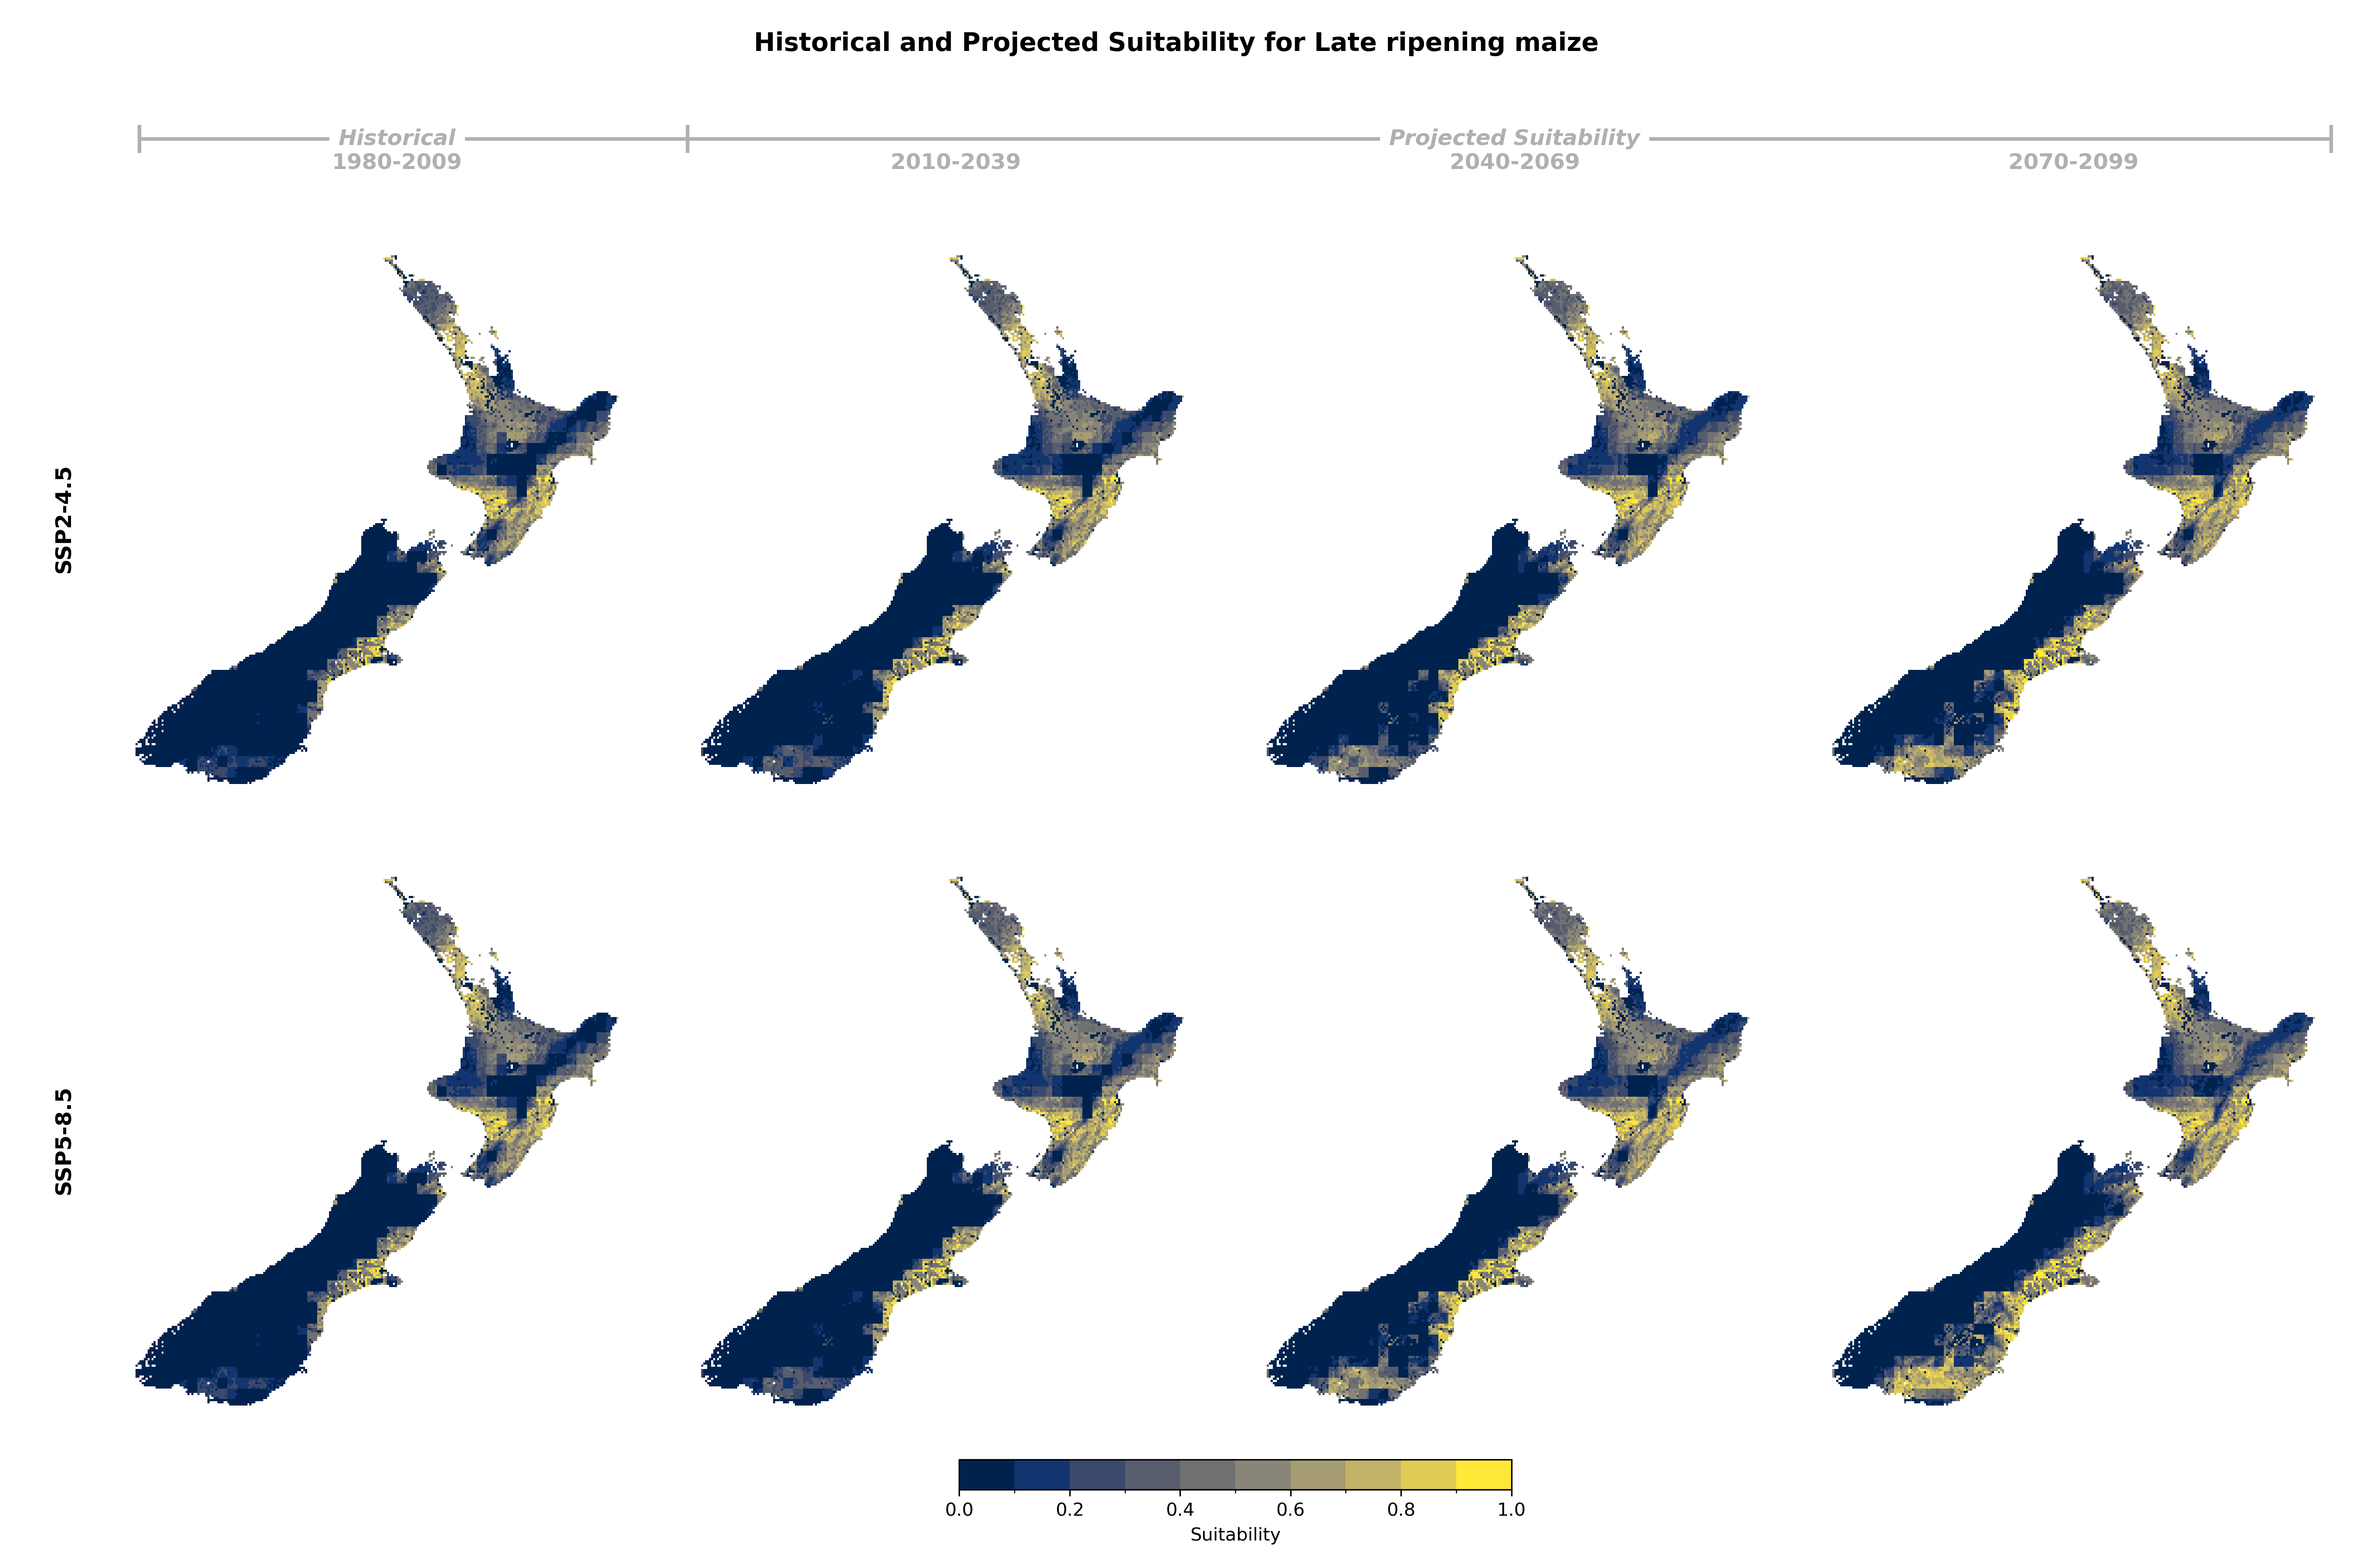
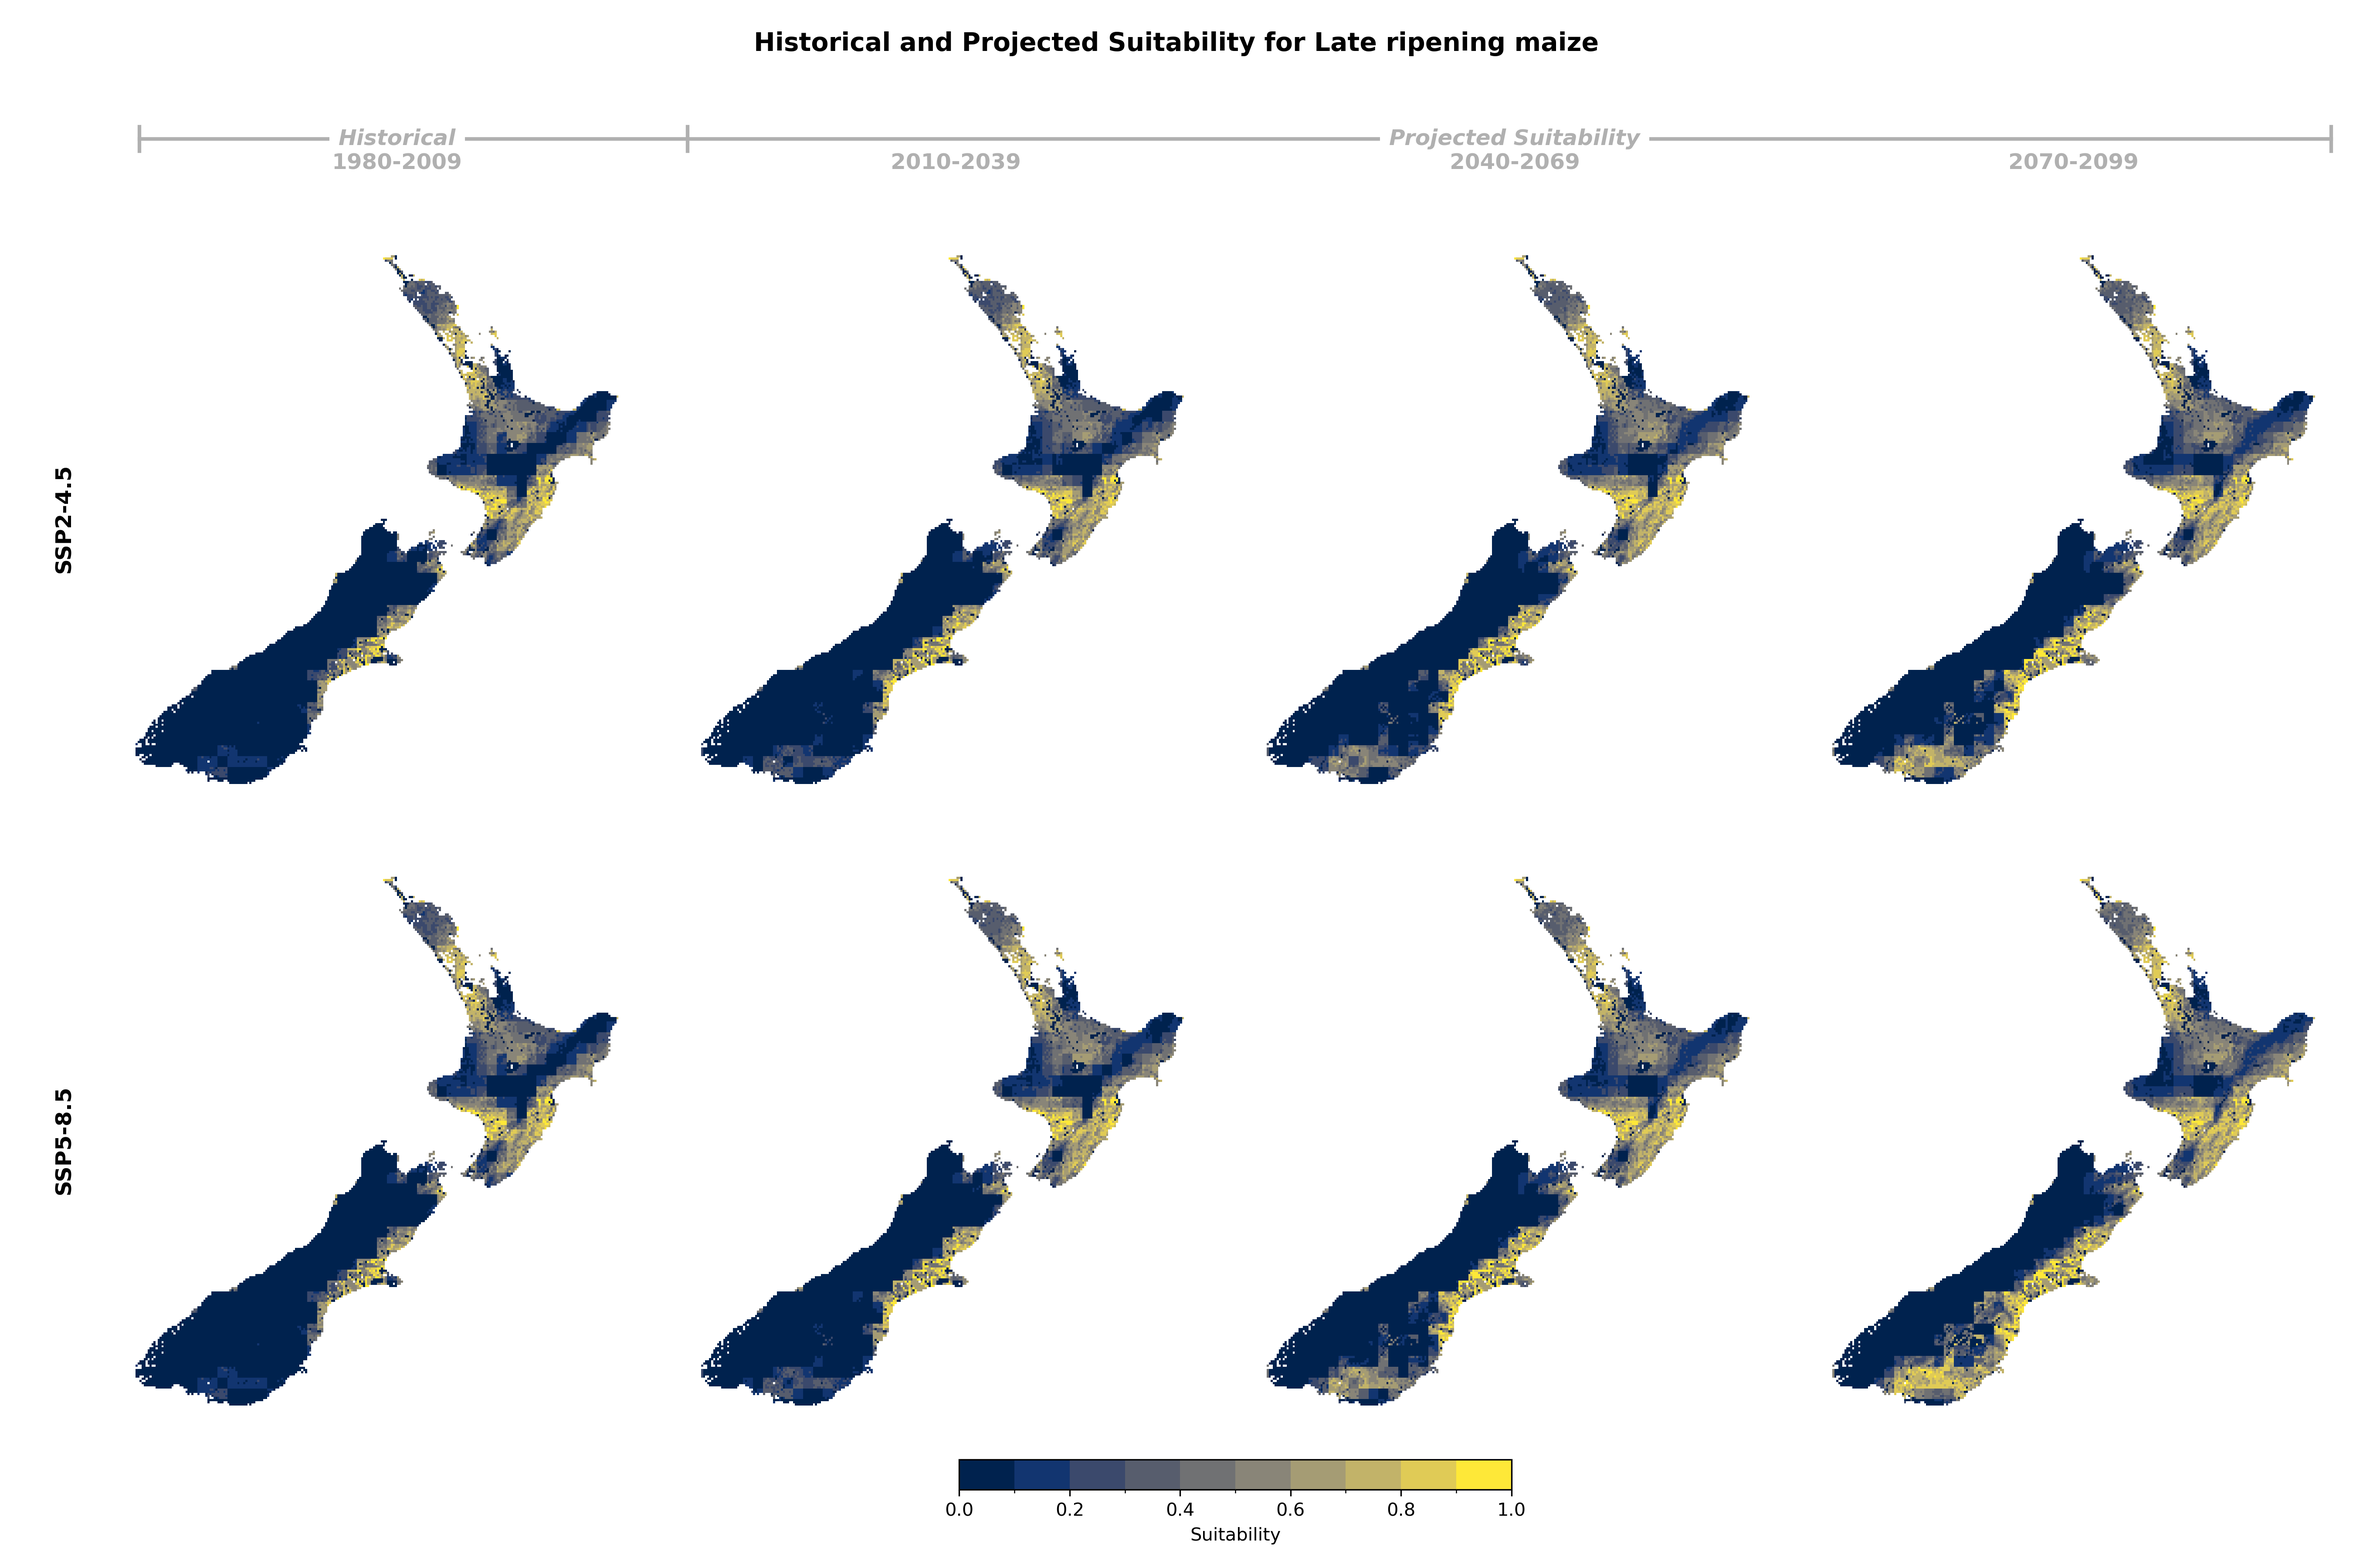
Add Late Maize 1km suitability

diff --git a/docs/landuses/maizelate.md b/docs/landuses/maizelate.md
@@ -8,11 +8,11 @@ title: Late ripening maize
 
 ### Suitability Values
 
-![](../_static/summary_figs/maizelate_suitability_SSP245-SSP585_5km_v1.0.png)
+![](../_static/summary_figs/maizelate_suitability_SSP245-SSP585_1km_v1.0.png)
 
 ### Suitability Changes
 
-![](../_static/summary_figs/maizelate_suitability_change_SSP245-SSP585_5km_v1.0.png)
+![](../_static/summary_figs/maizelate_suitability_change_SSP245-SSP585_1km_v1.0.png)
 
 :::
 
